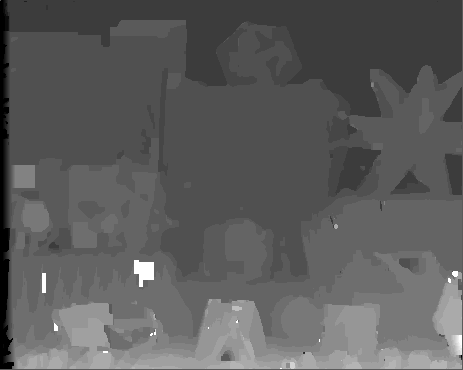
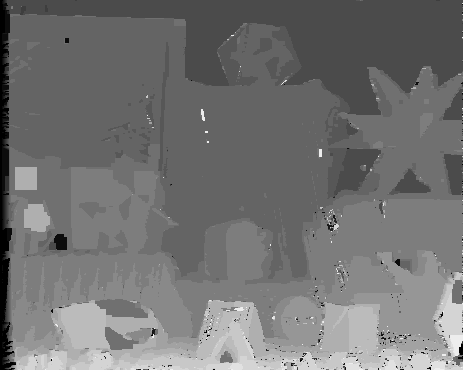
one line matching cost

diff --git a/src/GraphcutStereo.cpp b/src/GraphcutStereo.cpp
@@ -164,7 +164,9 @@ void GraphcutStereo::Update()
 
     if(drawHighRes != flag)
     {
-        DisparityMedian();
+        Display();
+
+        //DisparityMedian();
     }
 }
 
@@ -206,8 +208,12 @@ void GraphcutStereo::glDraw()
 	    
 
             CVD::Rgb<CVD::byte> c = img0_4x4[i][j];
-            //glColor(c.red/255.0, c.green/255.0, c.blue/255.0);
             glColor(c);
+//            float d = disparity4x4[i][j]; ;
+//            d = (d<=0)?1:d;
+//            float c = 0.5-1/d;
+//            glColor3f(c,c,c);
+
             glVertex3f(j*dy,Disparity2Depth(disparity4x4[i][j])*dz,i*dx);
             glVertex3f(j*dy,Disparity2Depth(disparity4x4[i+ds][j])*dz,(i+ds)*dx);
             glVertex3f((j+ds)*dy,Disparity2Depth(disparity4x4[i+ds][j+ds])*dz,(i+ds)*dx);
@@ -251,7 +257,7 @@ double GraphcutStereo::D(int i, int j, double dp)
 
     double val=0;
     int w=1;
-    for(int ii=i-w; ii<=i+w;ii++)
+    for(int ii=i; ii<i+1;ii++)
         for(int jj=j-w; jj<=j+w;jj++)
         {
             int pixVal = 0;
@@ -280,7 +286,8 @@ double GraphcutStereo::D(int i, int j, double dp)
             val+=pixVal;
         }
 
-    val = (val/(w*w))<200?(val/(w*w)):200;
+    double n = 3;
+    val = (val/(n))<200?(val/(n)):200;
 
     return val*val;
 
